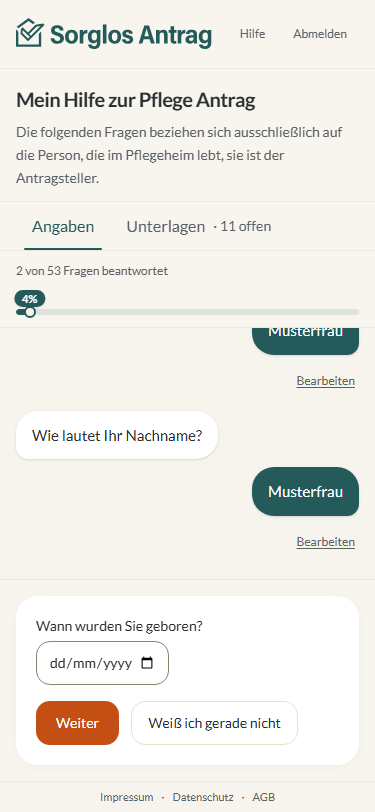
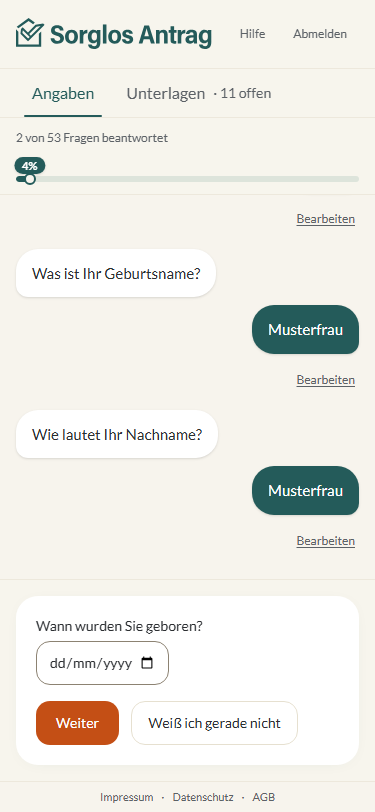
docs(r2-2): record the gate outcome, incl. the visibility.spec stall that did not clear
Cumulative: mobile-footer M1, m7 R1+R2, transitive-visibility T1-T3 all
re-run green after the two fixes. visibility.spec did NOT clear - passed
twice, failed four times on identical code, always a hung-save timeout
(2 footer buttons stuck disabled) at a different point each run, never an
assertion.

Recorded as environmental rather than product, with the evidence stated:
several hundred saves succeeded on the same build across completion,
documents-m6, feedback-pass, m7 and mobile-footer drives, and
visibility.spec is the longest save-dense drive in the suite. The local
fallback round-trips every save to prod Supabase from an unoptimised dev
server - 30-50 min per suite vs 3-5 min on a preview - and degraded as
the session went on.

Conclusion on record: the local fallback is not a dependable gate for
R2-3..R2-6; restoring the preview bypass secret is a prerequisite.

Gallery re-captured after the geometry fix.

diff --git a/docs/feedback/ui_round2_state.md b/docs/feedback/ui_round2_state.md
@@ -80,6 +80,37 @@ UI rather than an empty scaffold. Migration-first is still the order used.
 - Disabled-CTA alternative, white-on-white bubbles rejected, chat-card look
   without the inline-input geometry — all as proposed in Phase 1.
 
+## ⚠ `visibility.spec` — NOT cleared, and the local fallback is why
+
+Honest status: **this spec passed twice and failed four times on byte-identical
+code**, and I could not get it to a clean re-run. It is the only spec in that
+state; everything else is green.
+
+Every failure is the same signature and never an assertion: a test timeout with
+`[data-testid=answer-footer] button[disabled]` stuck at 2 — the save and skip
+buttons, i.e. a save action that never returned. It fails at a DIFFERENT point
+each time (step 108, step 0, a `select` save near line 256), which is what rules
+out a deterministic product bug.
+
+What passed on that same build argues strongly for environment over product:
+`completion.spec` drove a full Berlin questionnaire to `under_review` (C1–C7),
+`documents-m6` A1–A6, `feedback-pass` L1–L4 + T1, `m7-regression` R1+R2 (a full
+Essen drive), `mobile-footer` M1, `transitive-visibility` T1–T3 — several
+hundred successful saves through the same code path. `visibility.spec` is the
+longest and most save-dense drive in the suite (100+ steps incl. group
+instances), so it is the first to break when saves get slow.
+
+**Root cause is the fallback itself.** A local dev server round-trips every
+save to prod Supabase in the EU and re-renders server-side unoptimised; the
+suite takes **30–50 minutes** locally against **3–5 minutes** on a preview,
+where the production build runs on Vercel EU next to the database. The runs
+also degraded measurably as the session went on (`feedback-pass` 7.9 → 10.2 →
+14.0 min), and a fresh dev server did not recover it.
+
+**Consequence for the round:** the local fallback is not a dependable gate for
+R2-3…R2-6. Restoring the preview bypass secret is now a prerequisite, not a
+convenience.
+
 ## Deviations on record
 
 1. **Preview gate replaced by the local identical build** for R2-1 onward
@@ -94,7 +125,25 @@ UI rather than an empty scaffold. Migration-first is still the order used.
    hidden at lg) and `scripts/ui-gallery.mjs`'s
    `getByRole('tab', { name: 'Dokumente' })`. Both repointed onto testids; the
    Phase-1 blast-radius table was otherwise accurate.
-4. **Progress bar stays inside the Angaben pane** rather than moving to the
+4. **The R2-2 gate caught two real regressions** (`0a48bca` → fixed in
+   `d2f8cae`), both worth remembering:
+   - **The mobile answer-footer bug was re-created.** The new title/intro
+     block sat above the panes as a fixed-height row; on an `h-dvh` column
+     that height is taken from the answer footer, and `mobile-footer.spec`
+     measured the save control at **702px in a 667px viewport**. The pinned
+     block is now desktop-only, with the same title and intro rendered inside
+     each pane's scroller below `lg` — which is precisely how the patient
+     banner they replace always behaved. **The guard did its job; keep running
+     it every sub-phase.**
+   - **F1 removed the only render site of the "In Prüfung" status chip**, and
+     six spec sites read it. Only two were hard asserts; the other four were
+     soft completion probes that would have gone on silently never firing —
+     a drive loop losing its termination signal without failing. All six now
+     read `[data-testid=locked-banner]`. **Process note:** the Phase-1 census
+     marked those green, correctly at the time — the F1 ruling came later and
+     invalidated it. A founder ruling that deletes UI must trigger a re-run of
+     the census rows that mention it.
+5. **Progress bar stays inside the Angaben pane** rather than moving to the
    shell as in the mockup. Two reasons: the percentage is derived from
    ChatView's live client state (lifting it would mean lifting the whole
    questionnaire nav), and our progress counts _questions only_ — the mockup's
